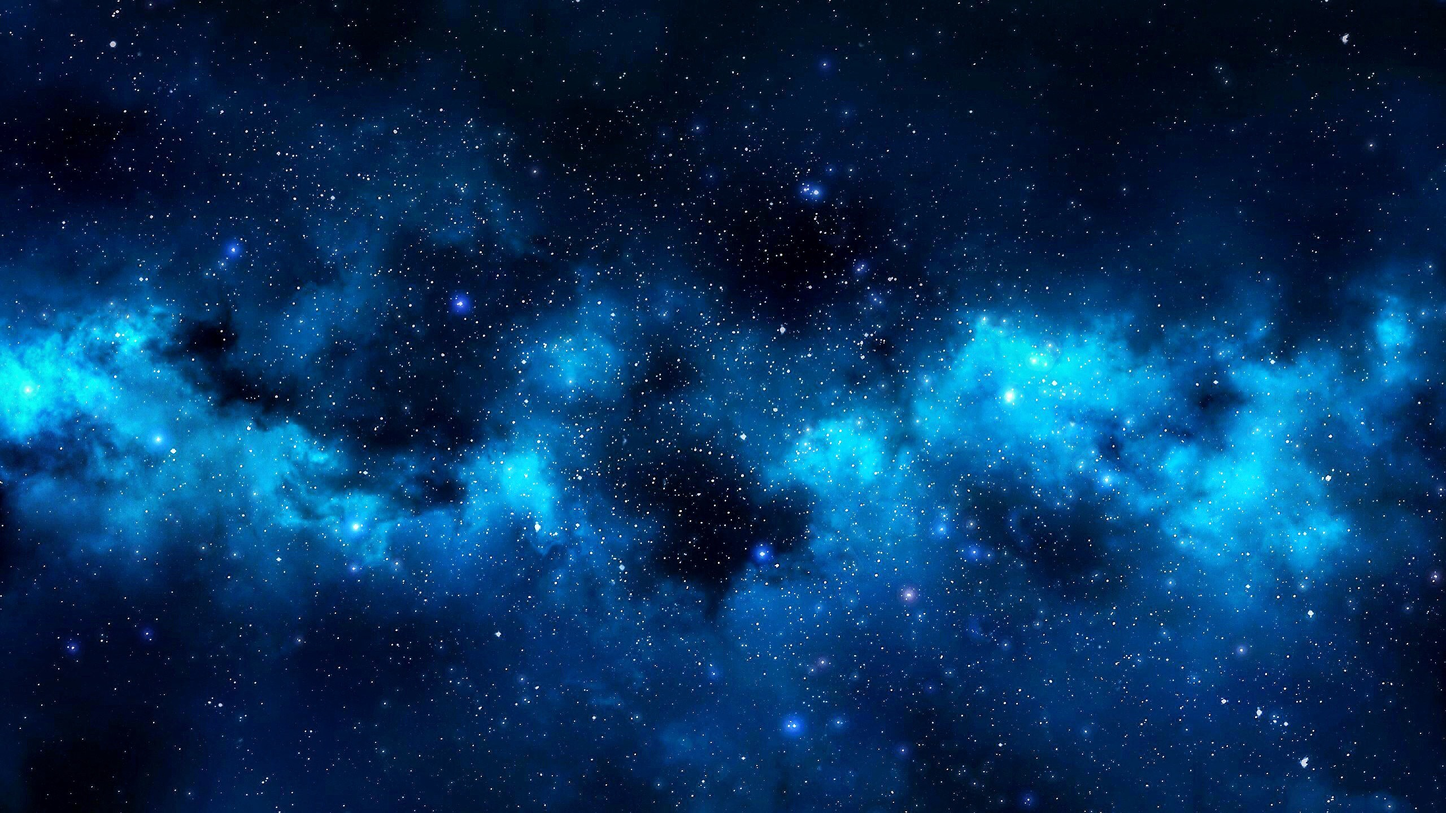
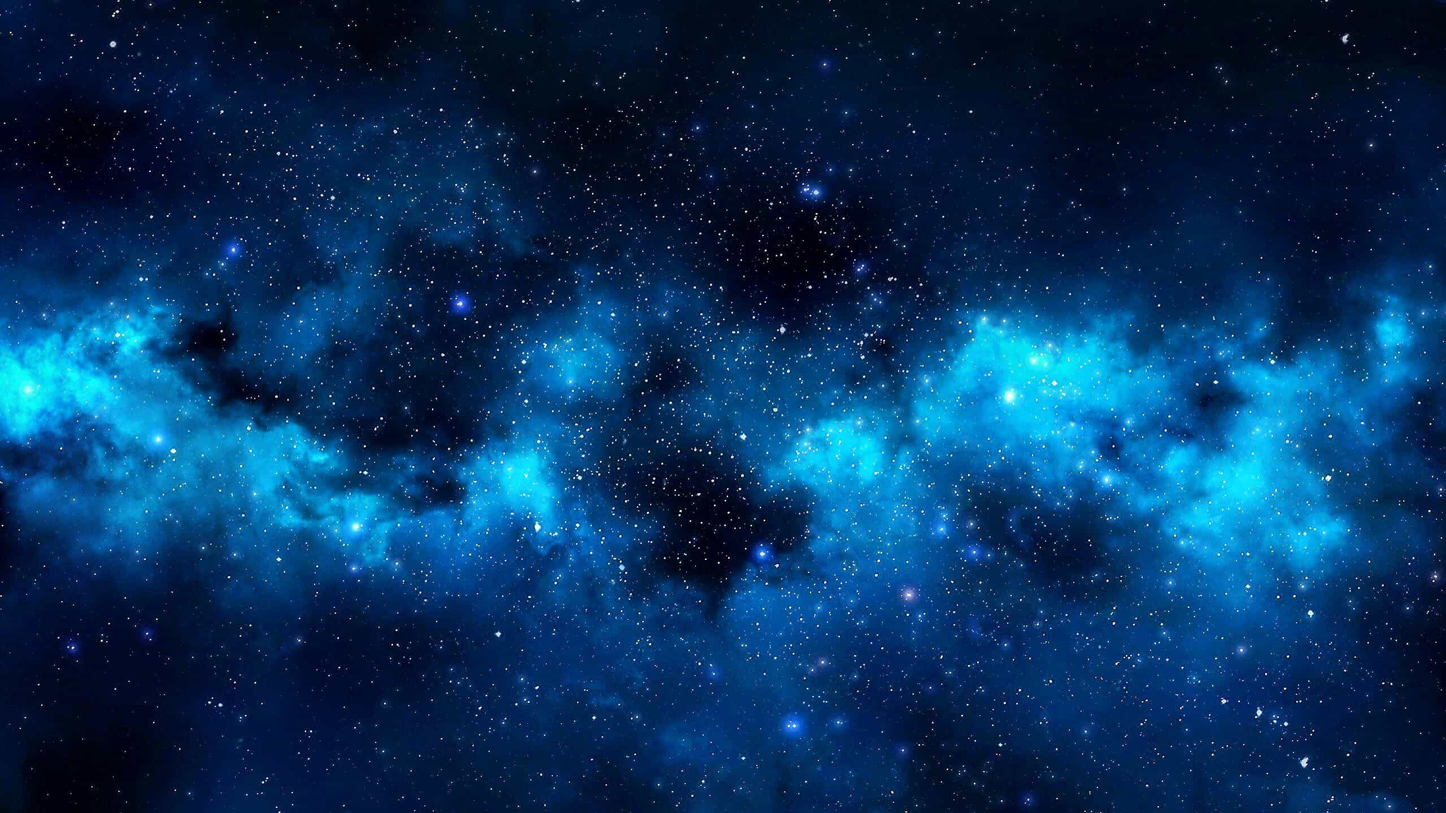
Ver 3.0 - img Optimized

diff --git a/css/style.css b/css/style.css
@@ -160,7 +160,7 @@ body {
   text-align: center;
   text-align: -moz-center;
   text-align: -webkit-center;
-  background: url(../images/CF202.jpg) no-repeat;
+  background: url(../images/CF1.jpg) no-repeat;
   background-size: cover;
   background-attachment: fixed;
   background-position: center;
@@ -183,7 +183,7 @@ body {
   width: 100%;
   height: 800px;
   margin: 0 auto;
-  background: url(../images/CF303.jpg) no-repeat;
+  background: url(../images/CF2.jpg) no-repeat;
   background-size: cover;
   background-attachment: fixed;
   background-position: center;
@@ -240,7 +240,7 @@ body {
 }
 
 .praise {
-  background: url(../images/CF13.jpg) no-repeat;
+  background: url(../images/CF3.jpg) no-repeat;
   background-size: cover;
   background-attachment: fixed;
   background-position: center;
@@ -339,7 +339,7 @@ body {
   width: 100%;
   height: 800px;
   margin: 0 auto;
-  background: url(../images/CF14.jpg) no-repeat;
+  background: url(../images/CF4.jpg) no-repeat;
   background-size: cover;
   background-attachment: fixed;
   background-position: center;
@@ -376,7 +376,7 @@ body {
   width: 100%;
   height: 800px;
   margin: 0 auto;
-  background: url(../images/CF15.jpg) no-repeat;
+  background: url(../images/CF5.jpg) no-repeat;
   background-size: cover;
   background-attachment: fixed;
   position: relative;
@@ -393,7 +393,7 @@ body {
   width: 100%;
   height: 800px;
   margin: 0 auto;
-  background: url(../images/CF16.jpg) no-repeat;
+  background: url(../images/CF6.jpg) no-repeat;
   background-size: cover;
   background-attachment: fixed;
   background-position: center;
@@ -411,7 +411,7 @@ body {
   width: 100%;
   height: 800px;
   margin: 0 auto;
-  background: url(../images/CF18A.jpg) no-repeat;
+  background: url(../images/CF7.jpg) no-repeat;
   background-size: cover;
   background-attachment: fixed;
   background-position: center;
@@ -424,7 +424,7 @@ body {
 }
 
 .locations {
-  background: url(../images/CF13.jpg) no-repeat;
+  background: url(../images/CF3.jpg) no-repeat;
   background-size: cover;
   background-attachment: fixed;
   background-position: center;
@@ -441,7 +441,7 @@ body {
 .contact {
   font-size: 1.2rem;
   background-color: rgb(50, 50, 50);
-  background: url(../images/CF9.jpg) no-repeat center;
+  background: url(../images/CF8.jpg) no-repeat center;
   background-size: cover;
   background-attachment: fixed;
   background-position: center;
@@ -1433,7 +1433,7 @@ body {
   }
 
   .praise {
-    background: url(../images/CF13.jpg) repeat-y;
+    background: url(../images/CF3.jpg) repeat-y;
     background-attachment: local;
   }
 
